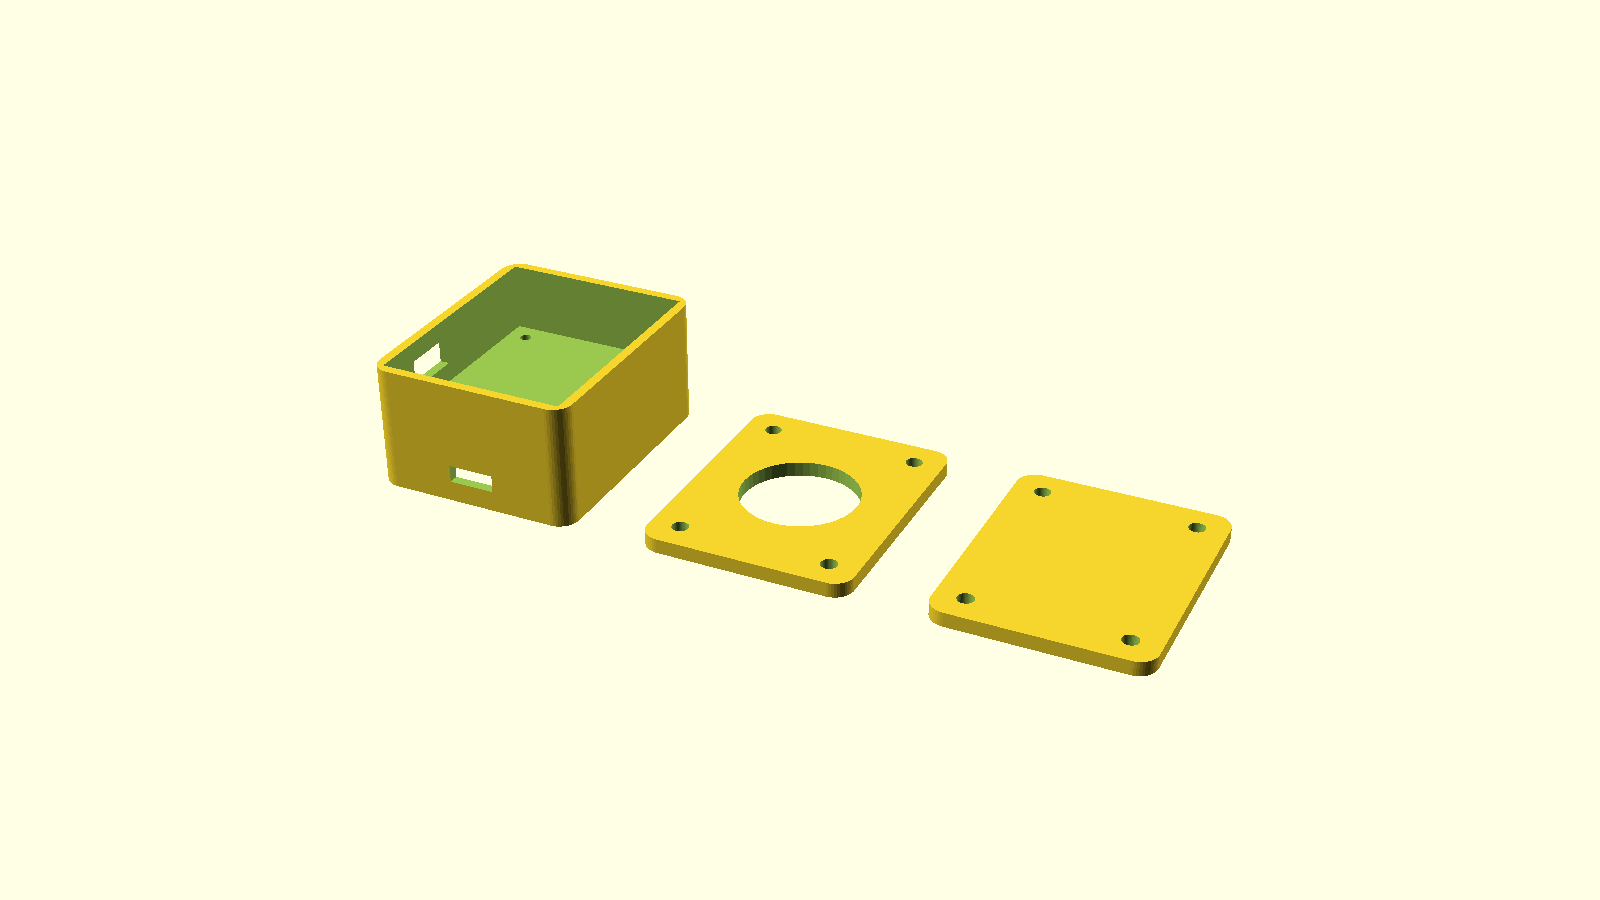
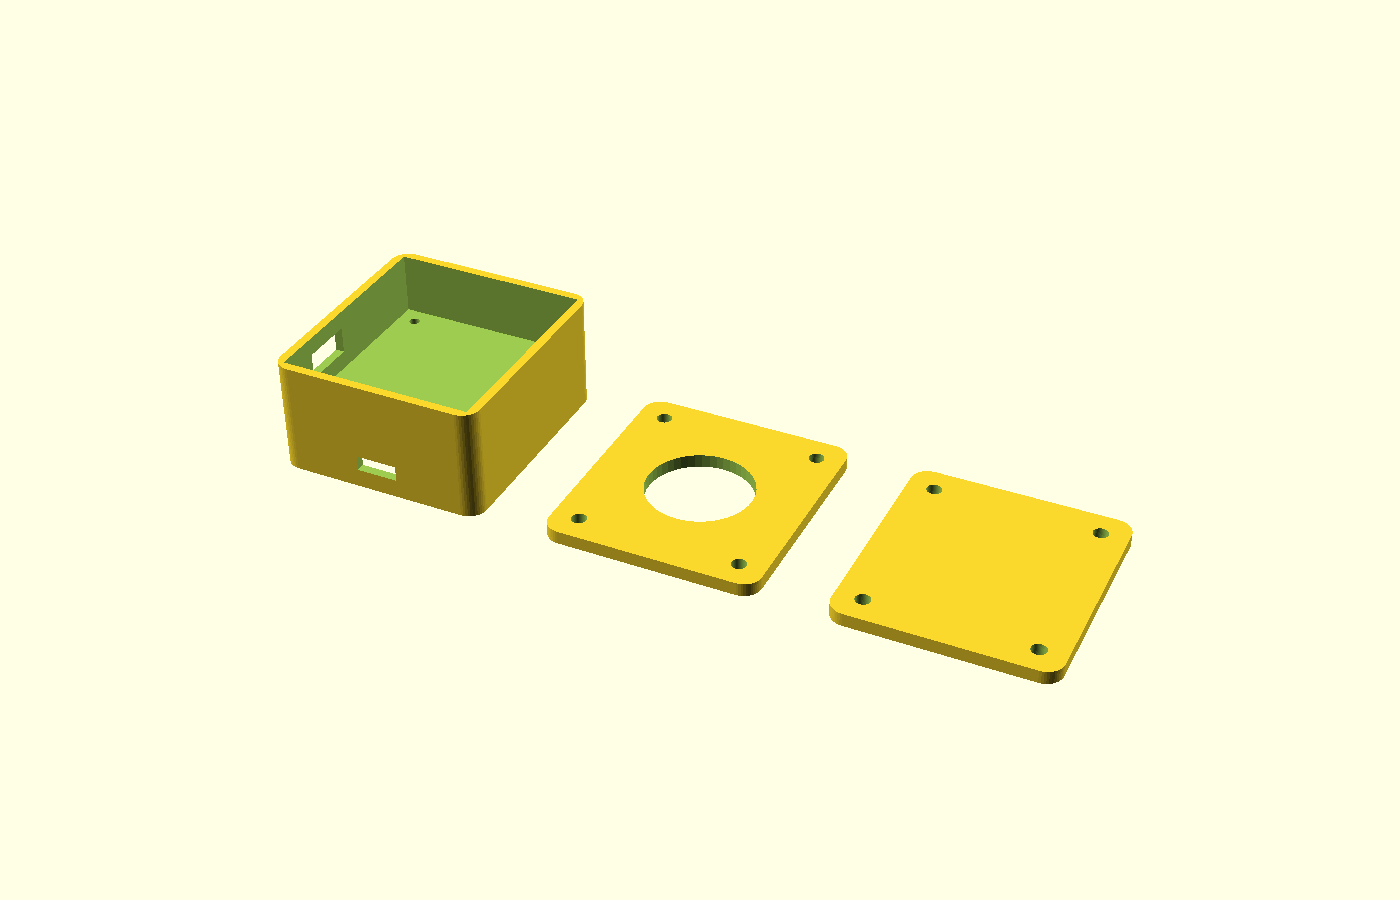
hardware: place le module charge/boost dans l'etage batterie du boitier
Repond a "et le module sera placer comment": le module charge+protection+
boost 3-en-1 loge dans l'etage batterie (compartiment du bas), a cote de
la cellule -- BAT+/BAT- en parallele sur la batterie, sortie 5V/GND qui
remonte par la fente de passage de cables deja existante jusqu'a J2 sur
le PCB. L'acces USB-C deja prevu sur cet etage sert justement a la charge
via ce module.

Avant, l'etage batterie n'etait dimensionne que pour la batterie seule --
le module n'aurait pas eu de place a cote d'elle. Ajoute des parametres
module_charge_l/p/h (dimensions generiques estimees pour ce type de
module, 26x18x6mm, a remesurer sur le module reellement recu) et
recalcule l'empreinte de l'etage batterie pour les deux cote a cote.

Verifie avec le vrai binaire OpenSCAD (2021.01, AppImage) sur les 2
variantes : geometrie valide ("Simple: yes") et rendu visuel correct
(corps + couvercle + trappe, pas de defaut de non-manifold).

Changed region(s): [[0.1843, 0.28, 0.8293, 0.7778]]

diff --git a/docs/BOM_BUZZER_EQUIPE.md b/docs/BOM_BUZZER_EQUIPE.md
@@ -115,3 +115,4 @@ Boîtier en **deux étages démontables indépendamment** (voir `hardware/boitie
 - Une étagère interne sépare les deux, avec une fente de passage pour les fils d'alimentation.
 - **Carte ESP32** : batterie ~2x plus grosse (1000-1200 mAh vs 500-600 mAh) → empreinte au sol différente entre les deux variantes (52×28mm de carte ESP32 confirmés par la fiche produit, contre la Nano+nRF24 plus compacte).
 - Accès externe prévu au port USB-C (charge, sur l'étage batterie) et à l'interrupteur (sur l'étage PCB), sans avoir à ouvrir les couvercles.
+- **Module charge+protection+boost 3-en-1** : loge **dans l'étage batterie**, à côté de la cellule (câblage BAT+/BAT- en parallèle sur la batterie, sortie 5V/GND qui remonte par la fente de passage de câbles jusqu'à J2 sur le PCB). L'étage batterie est maintenant dimensionné pour la batterie **et** ce module côte à côte (avant, il n'y avait de la place que pour la batterie seule) — dimensions du module estimées génériquement (26×18×6mm), **à remesurer sur le module réellement reçu** et ajuster `module_charge_l/p/h` dans le `.scad` si besoin.
